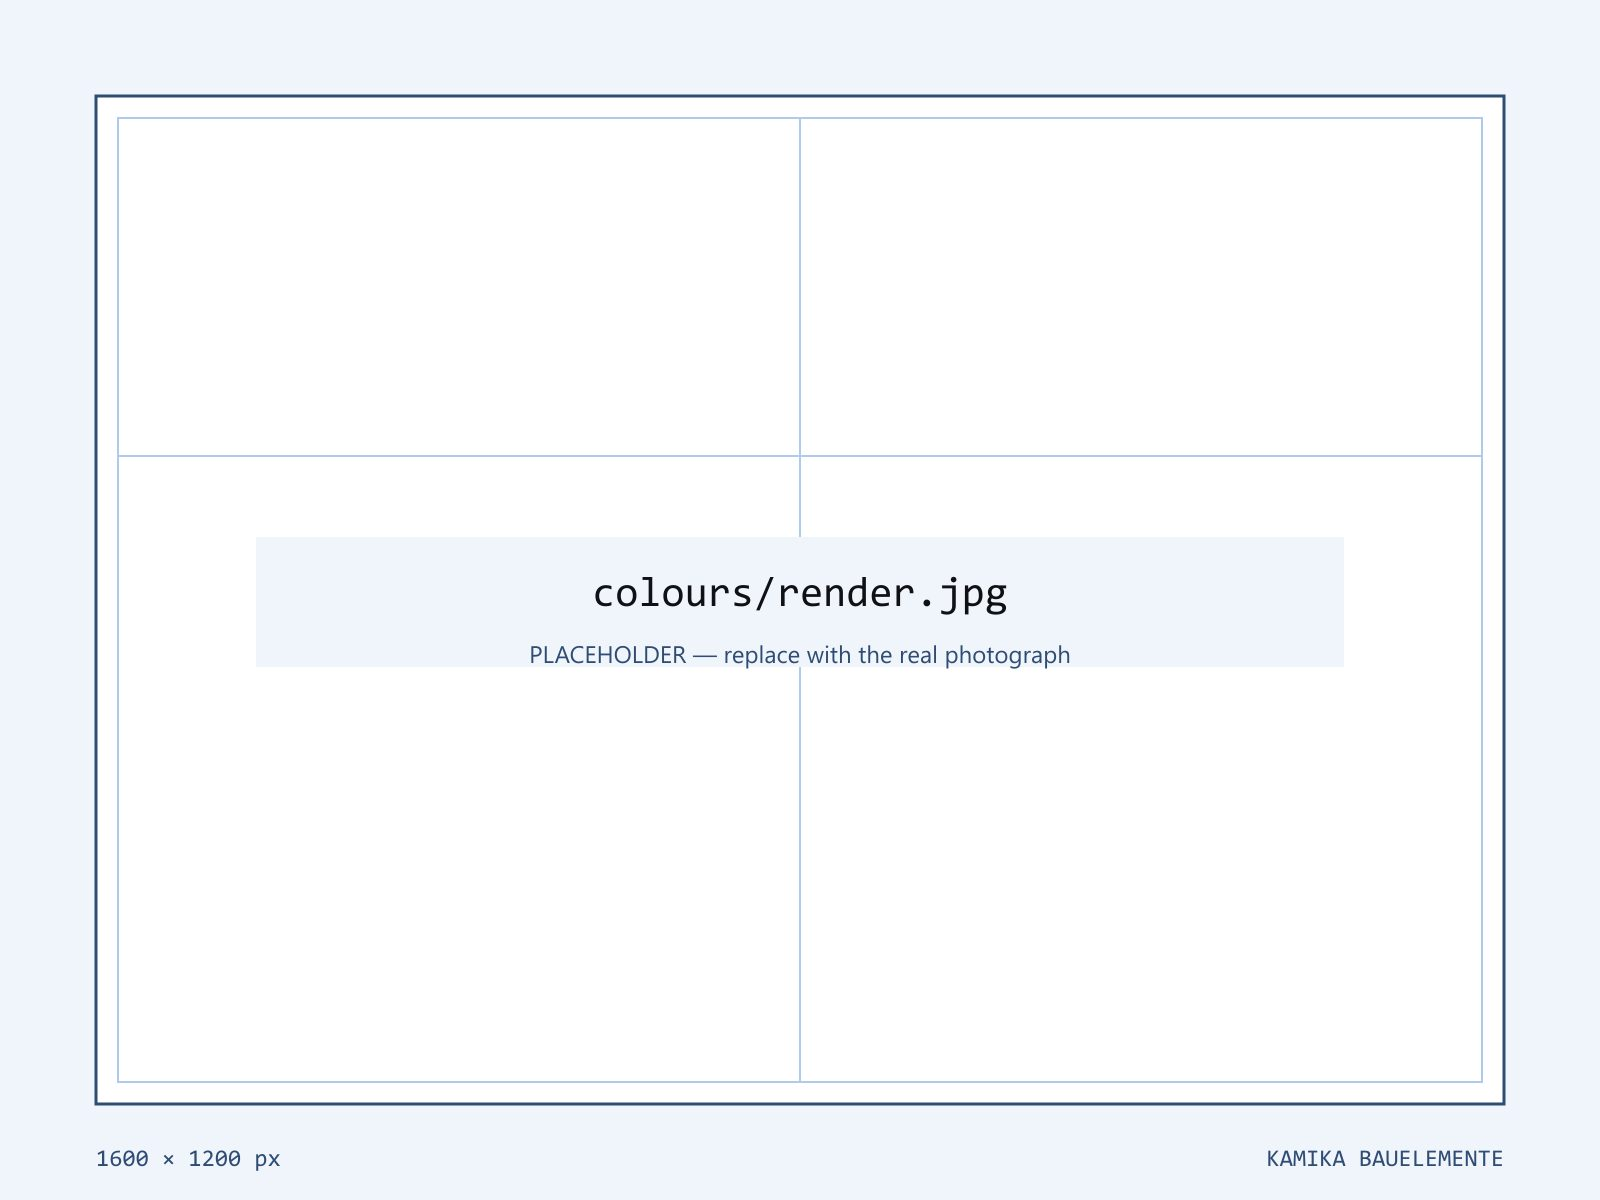
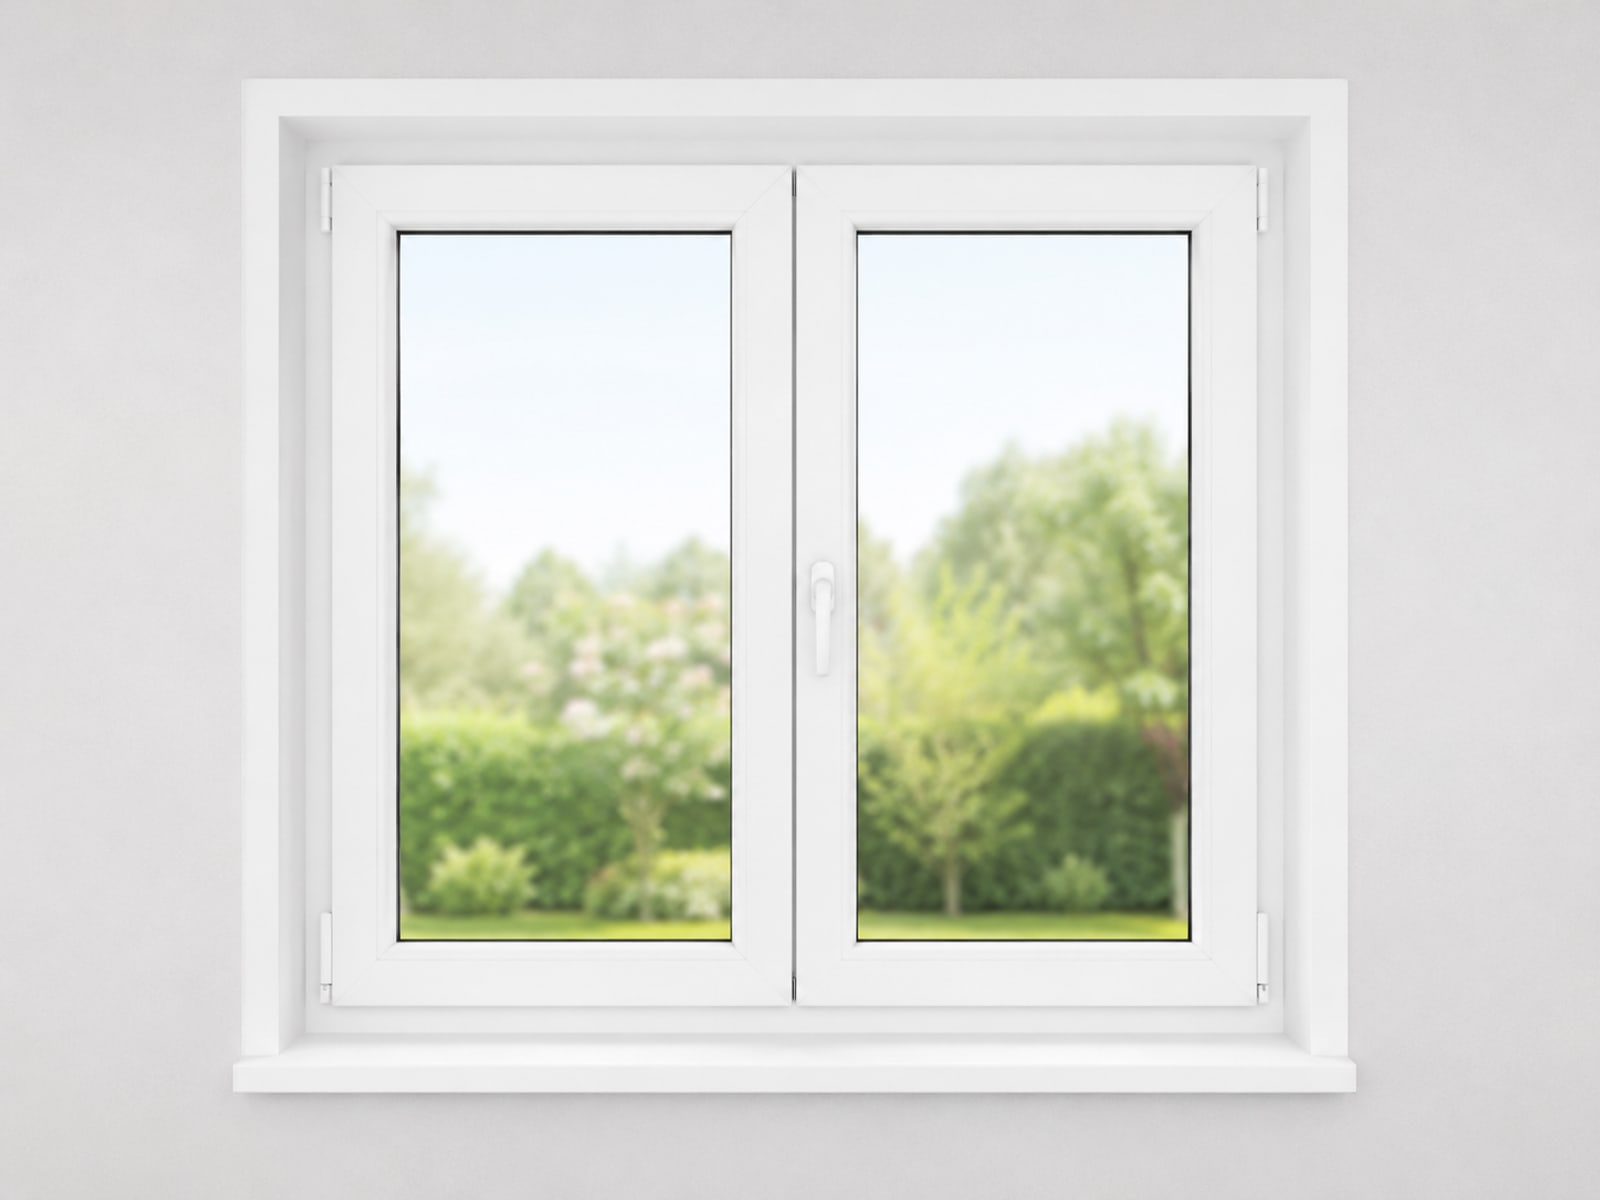
La ventana famosa: foto real en el live preview, con máscara para que el color caiga solo en el marco
El dueño generó y subió la foto del marco blanco que pedía el
placeholder de /colours. Al teñirla se vio el fallo que el dibujo
tapaba: mix-blend-multiply sobre TODA la imagen pintaba también el
jardín tras el cristal y la pared. El velo lleva ahora una máscara de
alfa (render-mask.png, medida píxel a píxel sobre la geometría del
marco: conjunto de la ventana sí; cristales, muro y repisa no) y el
resultado es un configurador de verdad: Lehmbraun o Moosgrün en el
marco, el jardín intacto.

- ColourPreview acepta tintMask opcional; la home (lámina sin teñir)
  no cambia.
- Primer intento en gris opaco no enmascaraba nada: el default CSS es
  el canal ALFA, no la luminancia — documentado en CONTENT.md.
- Original de la subida en source-photos/, como el resto.

Verificado en navegador con varios colores, claro y oscuro.

Claude-Session: https://claude.ai/code/session_01Sxjf1VcRzjemu8b38bfFpR

diff --git a/src/components/colour/ColourPreview.tsx b/src/components/colour/ColourPreview.tsx
@@ -32,6 +32,17 @@ type ColourPreviewProps = {
    * página de colores conserva el render neutro que sí se tiñe.
    */
   tint?: boolean;
+  /**
+   * Máscara del velo de color: PNG en blanco (se tiñe) y negro (no).
+   *
+   * Llegó con la foto real (2026-08): multiplicar la imagen ENTERA
+   * teñía también el jardín tras el cristal y la pared — con el
+   * placeholder dibujado no se notaba, con una fotografía sí. La
+   * máscara delimita el conjunto de la ventana y deja fuera cristales,
+   * muro y repisa. Debe compartir proporción con la imagen (4:3): el
+   * velo va con maskSize 100%/100% sobre la misma caja.
+   */
+  tintMask?: string;
   /** Alt propio cuando la imagen no es el render teñible. */
   imageAlt?: string;
 };
@@ -41,6 +52,7 @@ export function ColourPreview({
   renderImage,
   className,
   tint = true,
+  tintMask,
   imageAlt,
 }: ColourPreviewProps) {
   const { pick, t } = useI18n();
@@ -64,7 +76,15 @@ export function ColourPreview({
             <div
               aria-hidden
               className="absolute inset-0 mix-blend-multiply motion-safe:transition-colors motion-safe:duration-500"
-              style={{ backgroundColor: active.hex }}
+              style={{
+                backgroundColor: active.hex,
+                ...(tintMask && {
+                  maskImage: `url(${tintMask})`,
+                  maskSize: "100% 100%",
+                  WebkitMaskImage: `url(${tintMask})`,
+                  WebkitMaskSize: "100% 100%",
+                }),
+              }}
             />
           )}
         </WindowFrame>

diff --git a/src/app/[locale]/colours/page.tsx b/src/app/[locale]/colours/page.tsx
@@ -44,9 +44,12 @@ export default async function ColoursPage({ params }: PageProps<"/[locale]/colou
           />
         </Reveal>
 
+        {/* La foto real del dueño (2026-08) con su máscara: el color
+            cae solo sobre el marco, no sobre el jardín ni la pared. */}
         <ColourPreview
           colours={COLORS.slice(0, 14)}
           renderImage="/images/colours/render.jpg"
+          tintMask="/images/colours/render-mask.png"
           className="mt-12"
         />
       </section>

diff --git a/CONTENT.md b/CONTENT.md
@@ -30,7 +30,7 @@ npm run assets:placeholders
 | `[x]`  | `public/images/about/dominik.jpg`                 | **The real portrait AND the real bio are in place** (2026-08). The frame crops the photo to 4:5 with the face centred — checked in a real browser. The bio is the owner's own text, translated to English for now; **the German original is stored verbatim in `de.ts`** (`about.ownerBody1/2`, `about.ownerRole`) and goes out literally when the site switches to German. | —     |
 | `[~]`  | `public/images/catalogues/{id}-cover.jpg`         | Front cover of each catalogue — it is also the card the visitor clicks in the range. ROKA's two PDFs have real covers, rendered from page 1. The Despiro and panel PDFs are extracts with no cover, so theirs are composed by `node scripts/build-collection-covers.mjs` from two of their own models. If the supplier sends a complete PDF, render page 1 and drop the composed one. | You   |
 | `[~]`  | `public/images/projects/{id}-{n}.jpg`             | **16 real jobs are online** with the owner's photos (2026-08). Most have a single photo, which is what he had; a second and third of the same job — a wider shot, a detail — make a project page much more convincing. Two photos of the batch (06, 07) still have no job attached. | Owner |
-| `[~]`  | `public/images/colours/render.jpg`                | One frame photographed in a **light, neutral colour** (white or light grey), evenly lit. The colour picker tints it with `mix-blend-multiply`, which keeps the shadows of the profile — but that only works if the source is pale. A dark frame will tint to mud. | Owner |
+| `[x]`  | `public/images/colours/render.jpg`                | **Done (2026-08)** — a white tilt-and-turn window generated from a prompt written here, approved and uploaded by the owner ("la ventana famosa"; original in `source-photos/`). With a REAL photo the multiply veil showed its flaw: it tinted the garden behind the glass and the wall too, so the tint layer now carries an **alpha mask** (`render-mask.png`, generated by measuring the frame's pixel geometry) and the colour lands on the frame only. If the photo is ever replaced, the mask must be re-measured — and note the CSS default is the ALPHA channel, not luminance: a grey-on-opaque PNG masks nothing. | —     |
 | `[x]`  | ~~`public/images/contact/map.jpg`~~               | Gone. The location is a **Google Maps embed behind a click** (`LocationMap`), with a cover the site draws itself. It pins the address on its own, so nothing has to be supplied. See the note below before changing how it loads. | —     |
 
 > No stock photography of smiling people pointing at windows. Real installations only.
